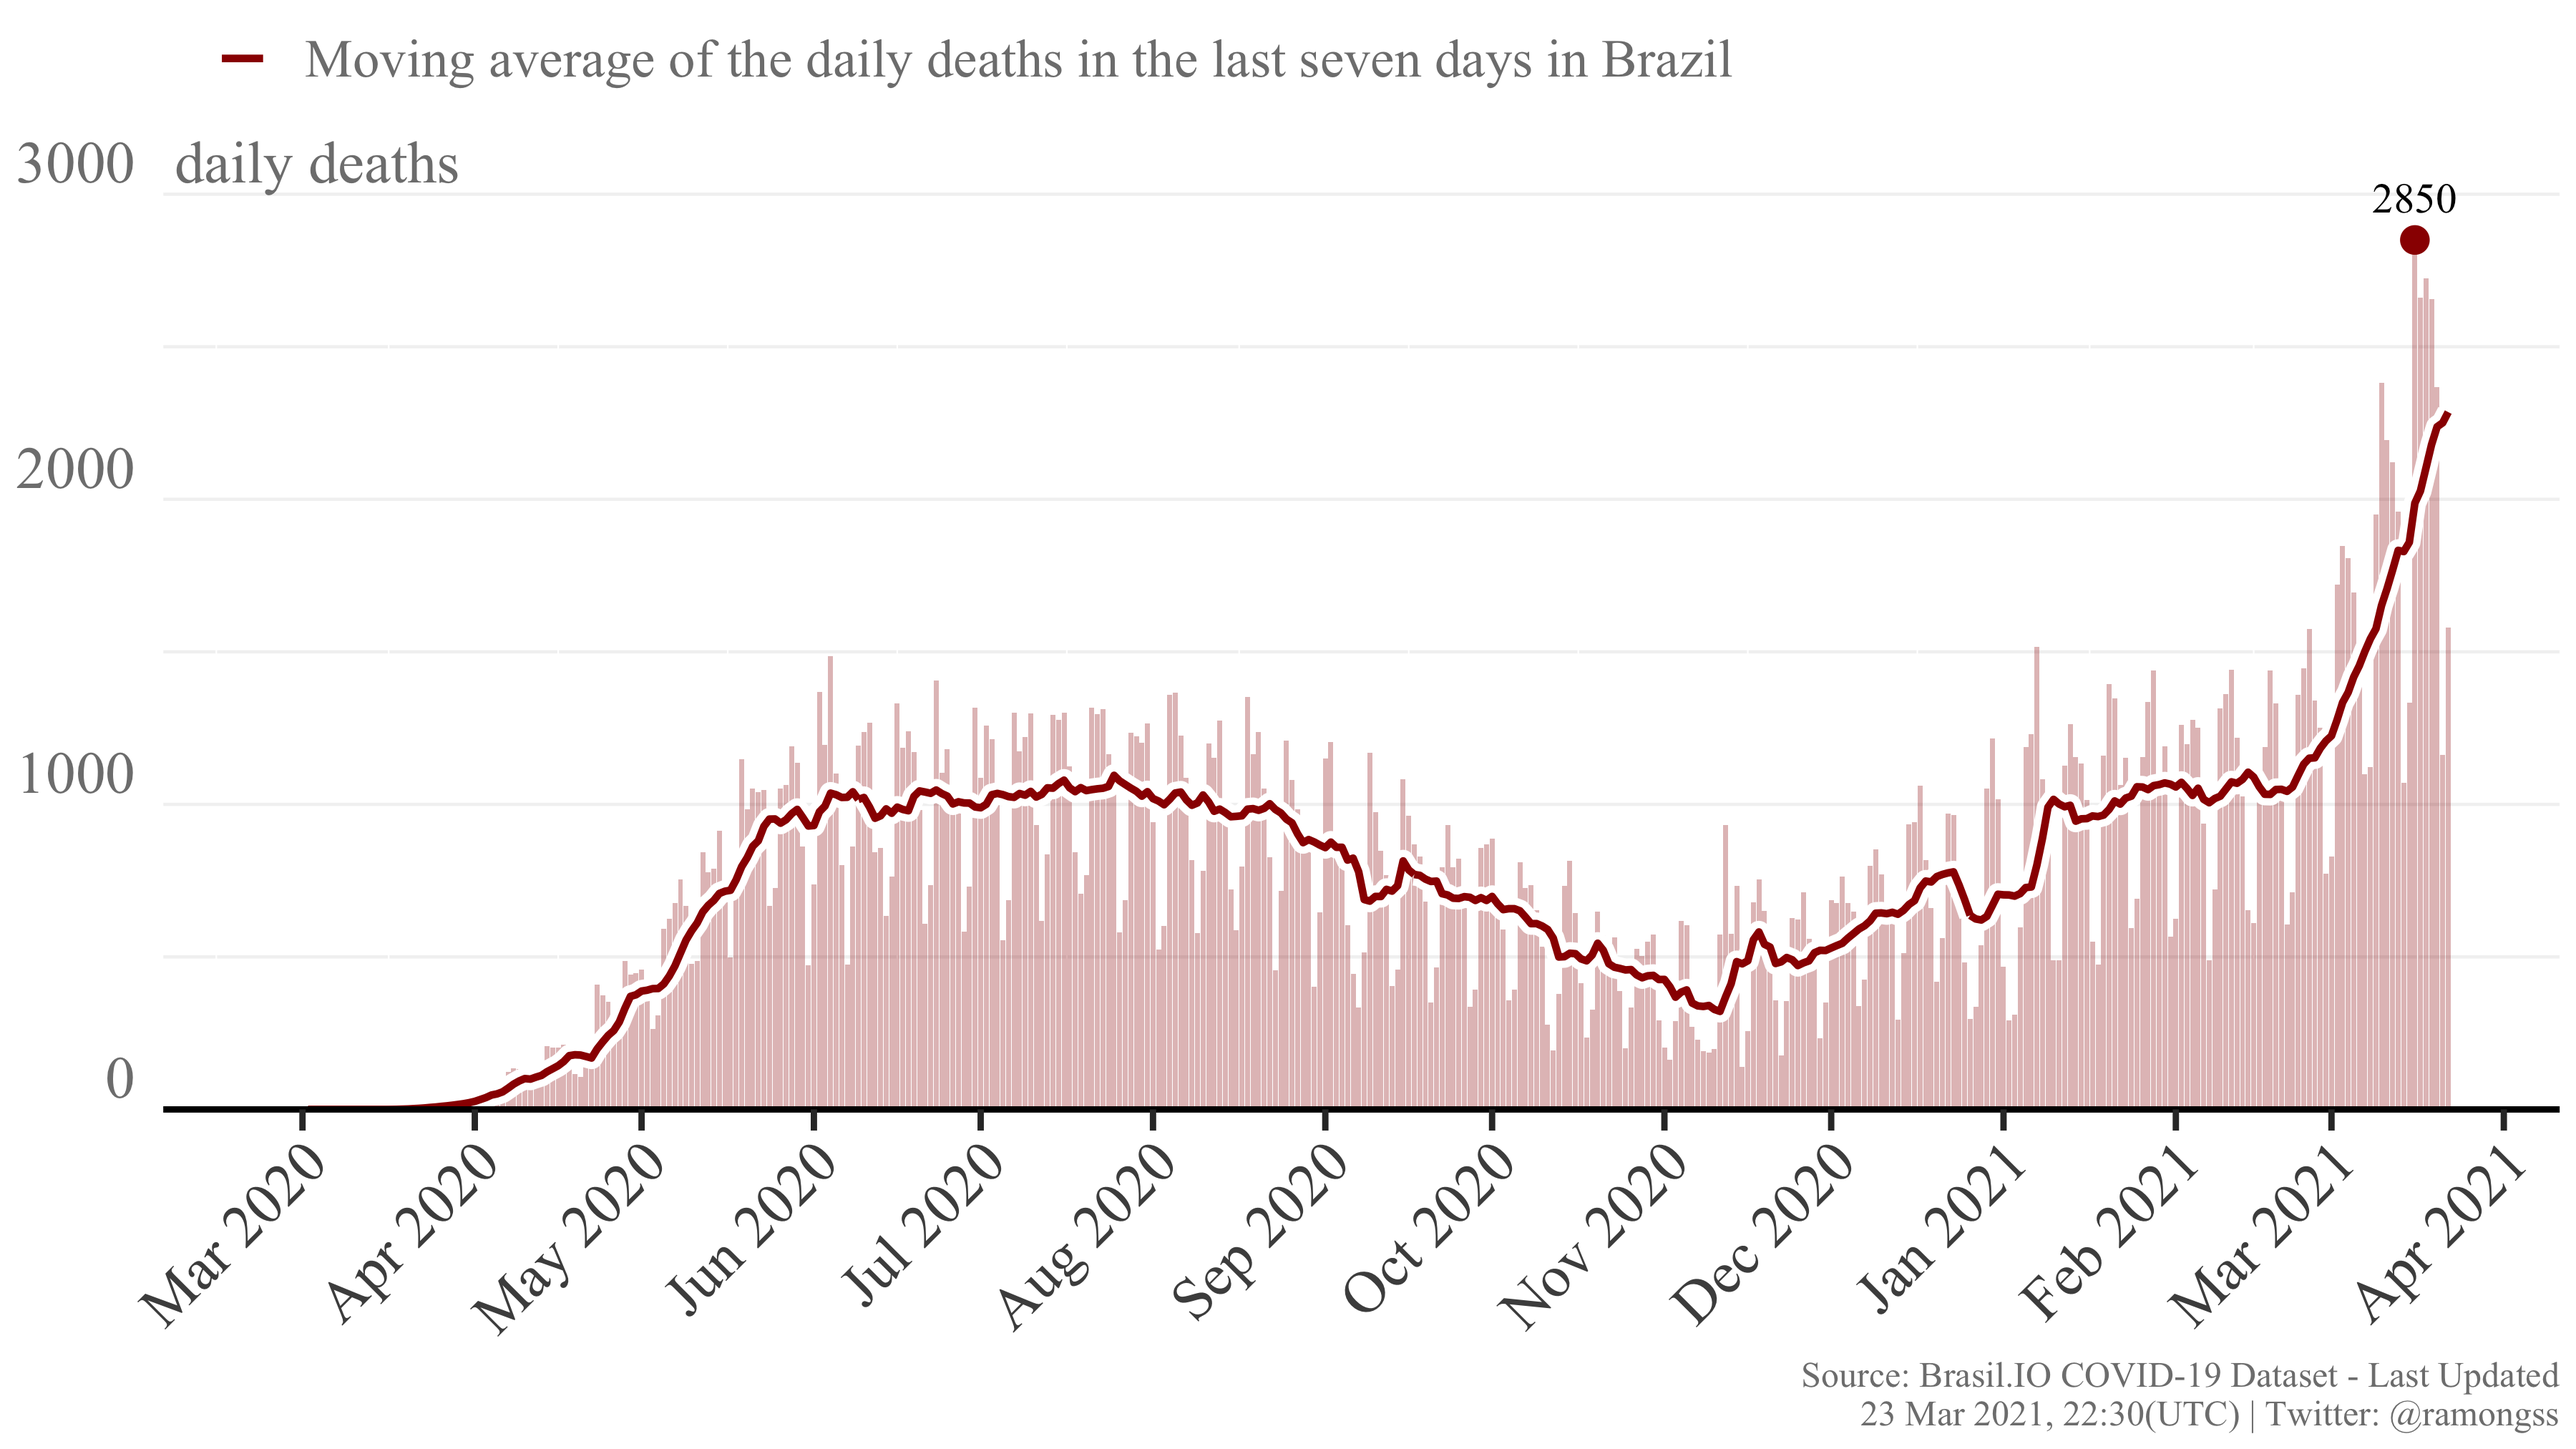
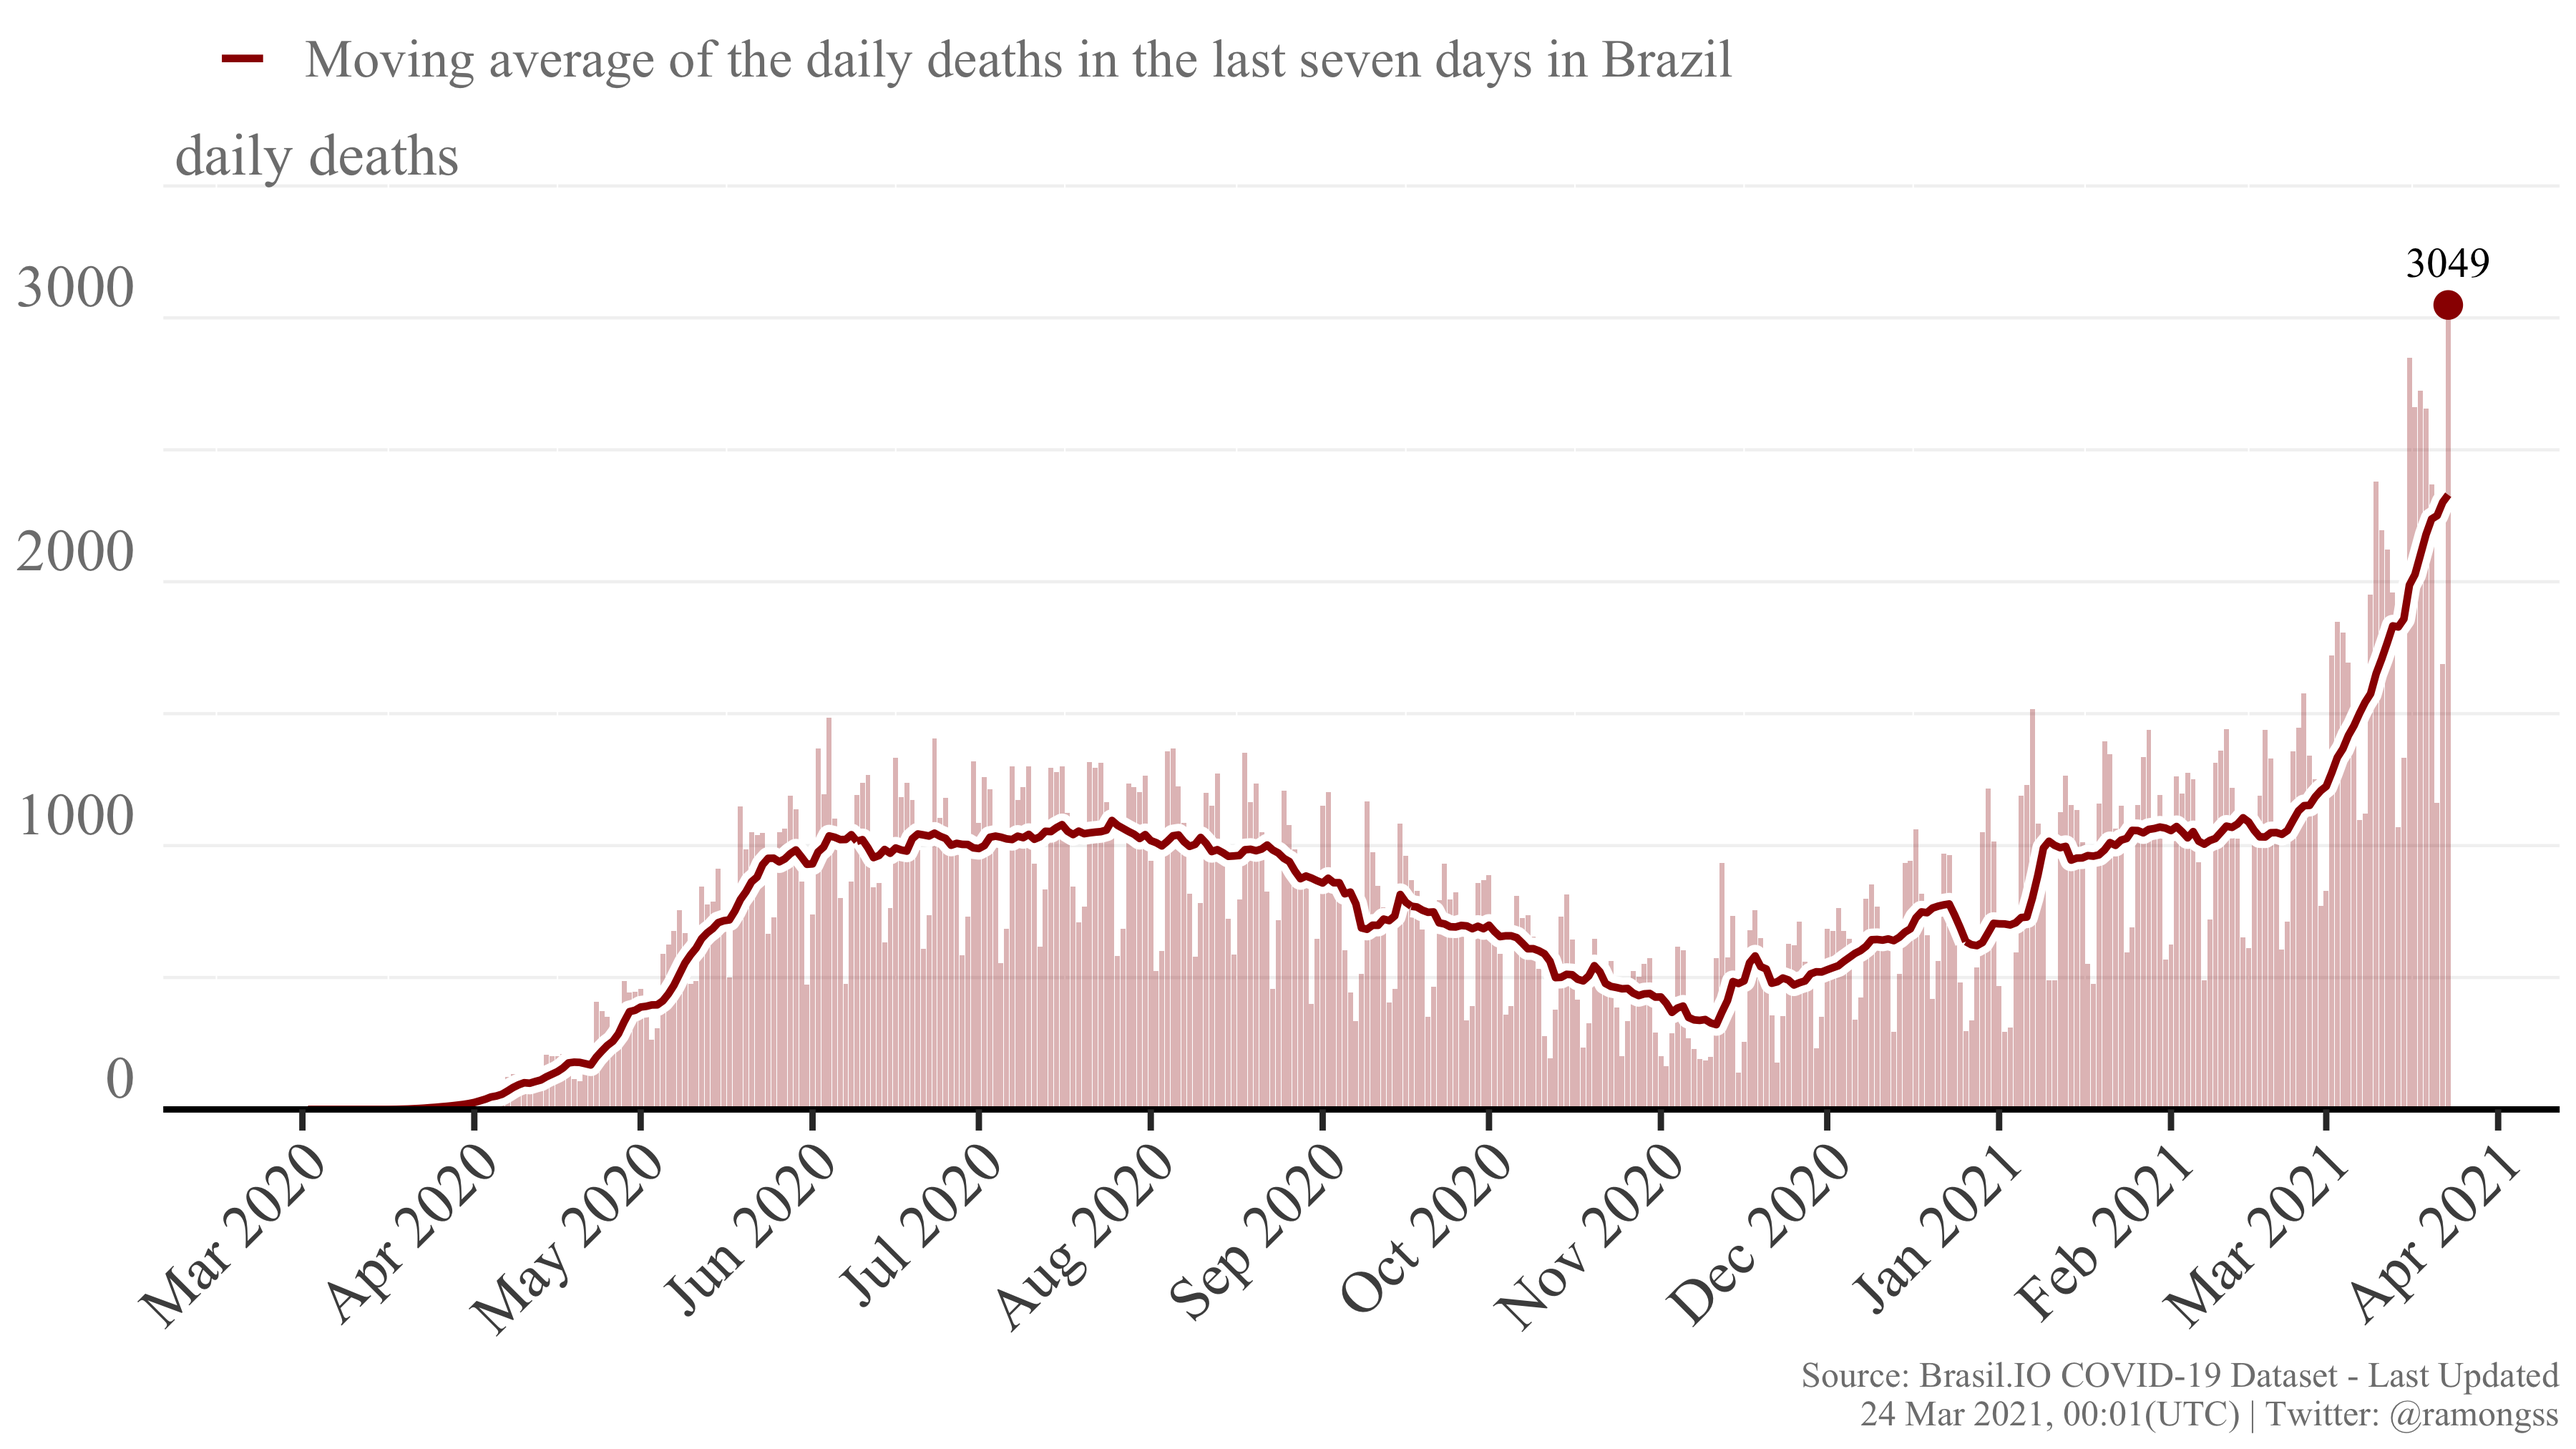
Re-build README.Rmd

diff --git a/README.md b/README.md
@@ -27,7 +27,7 @@ download_brasilio_table <- function(dataset = "covid19", table_name){
 
 ## COVID-19 Confirmed cases
 
-Currently, Brazil has a total of **12,057,988** confirmed cases at **22
+Currently, Brazil has a total of **12,142,957** confirmed cases at **23
 Mar, 2021**. The daily maximum incidence was **89,769** confirmed cases
 at **07 Jan, 2021**. Here follows the Figure showing the confirmed case
 incidence as the bars, and the line as the moving average of the last 7
@@ -37,8 +37,8 @@ days.
 
 ## COVID-19 Deaths
 
-Currently, Brazil has a total of **295,818** deaths at **22 Mar, 2021**.
-The daily maximum deaths incidence was **2,850** deaths at **16 Mar,
+Currently, Brazil has a total of **298,975** deaths at **23 Mar, 2021**.
+The daily maximum deaths incidence was **3,049** deaths at **23 Mar,
 2021**. Here follows the Figure showing the deaths incidence as the
 bars, and the line as the moving average of the last 7 days.
 
@@ -48,4 +48,4 @@ bars, and the line as the moving average of the last 7 days.
 
 This page is daily updated automatically using Github Actions.
 
-*Last update: 23 Mar 2021, 22:30 (UTC).*
+*Last update: 24 Mar 2021, 00:01 (UTC).*
